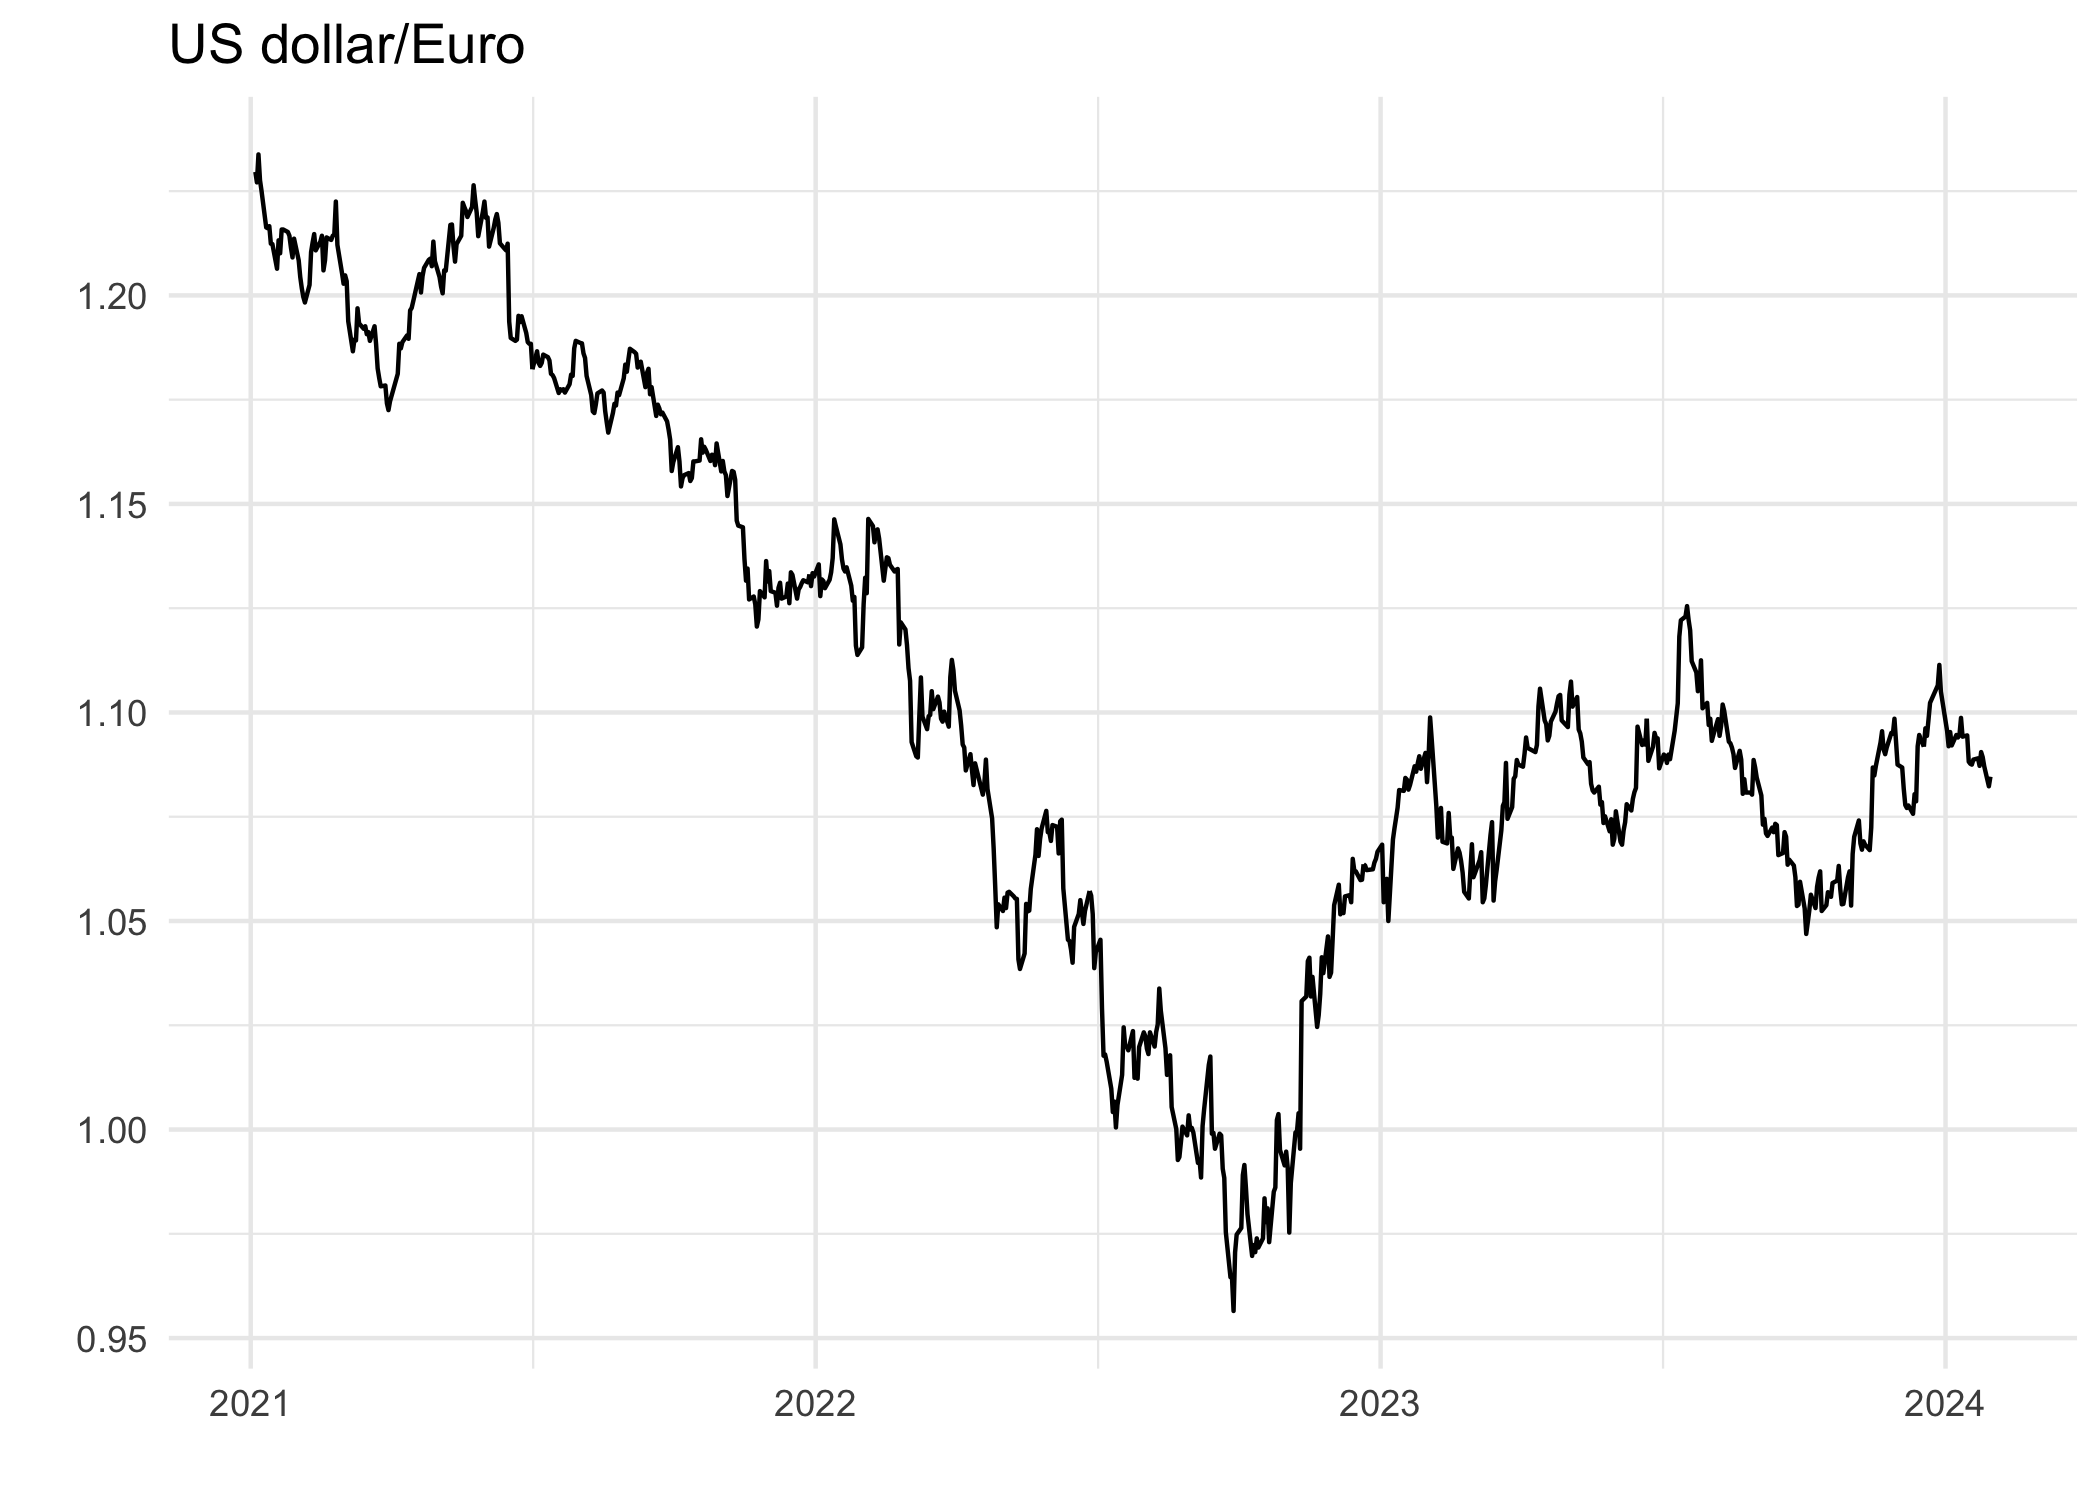
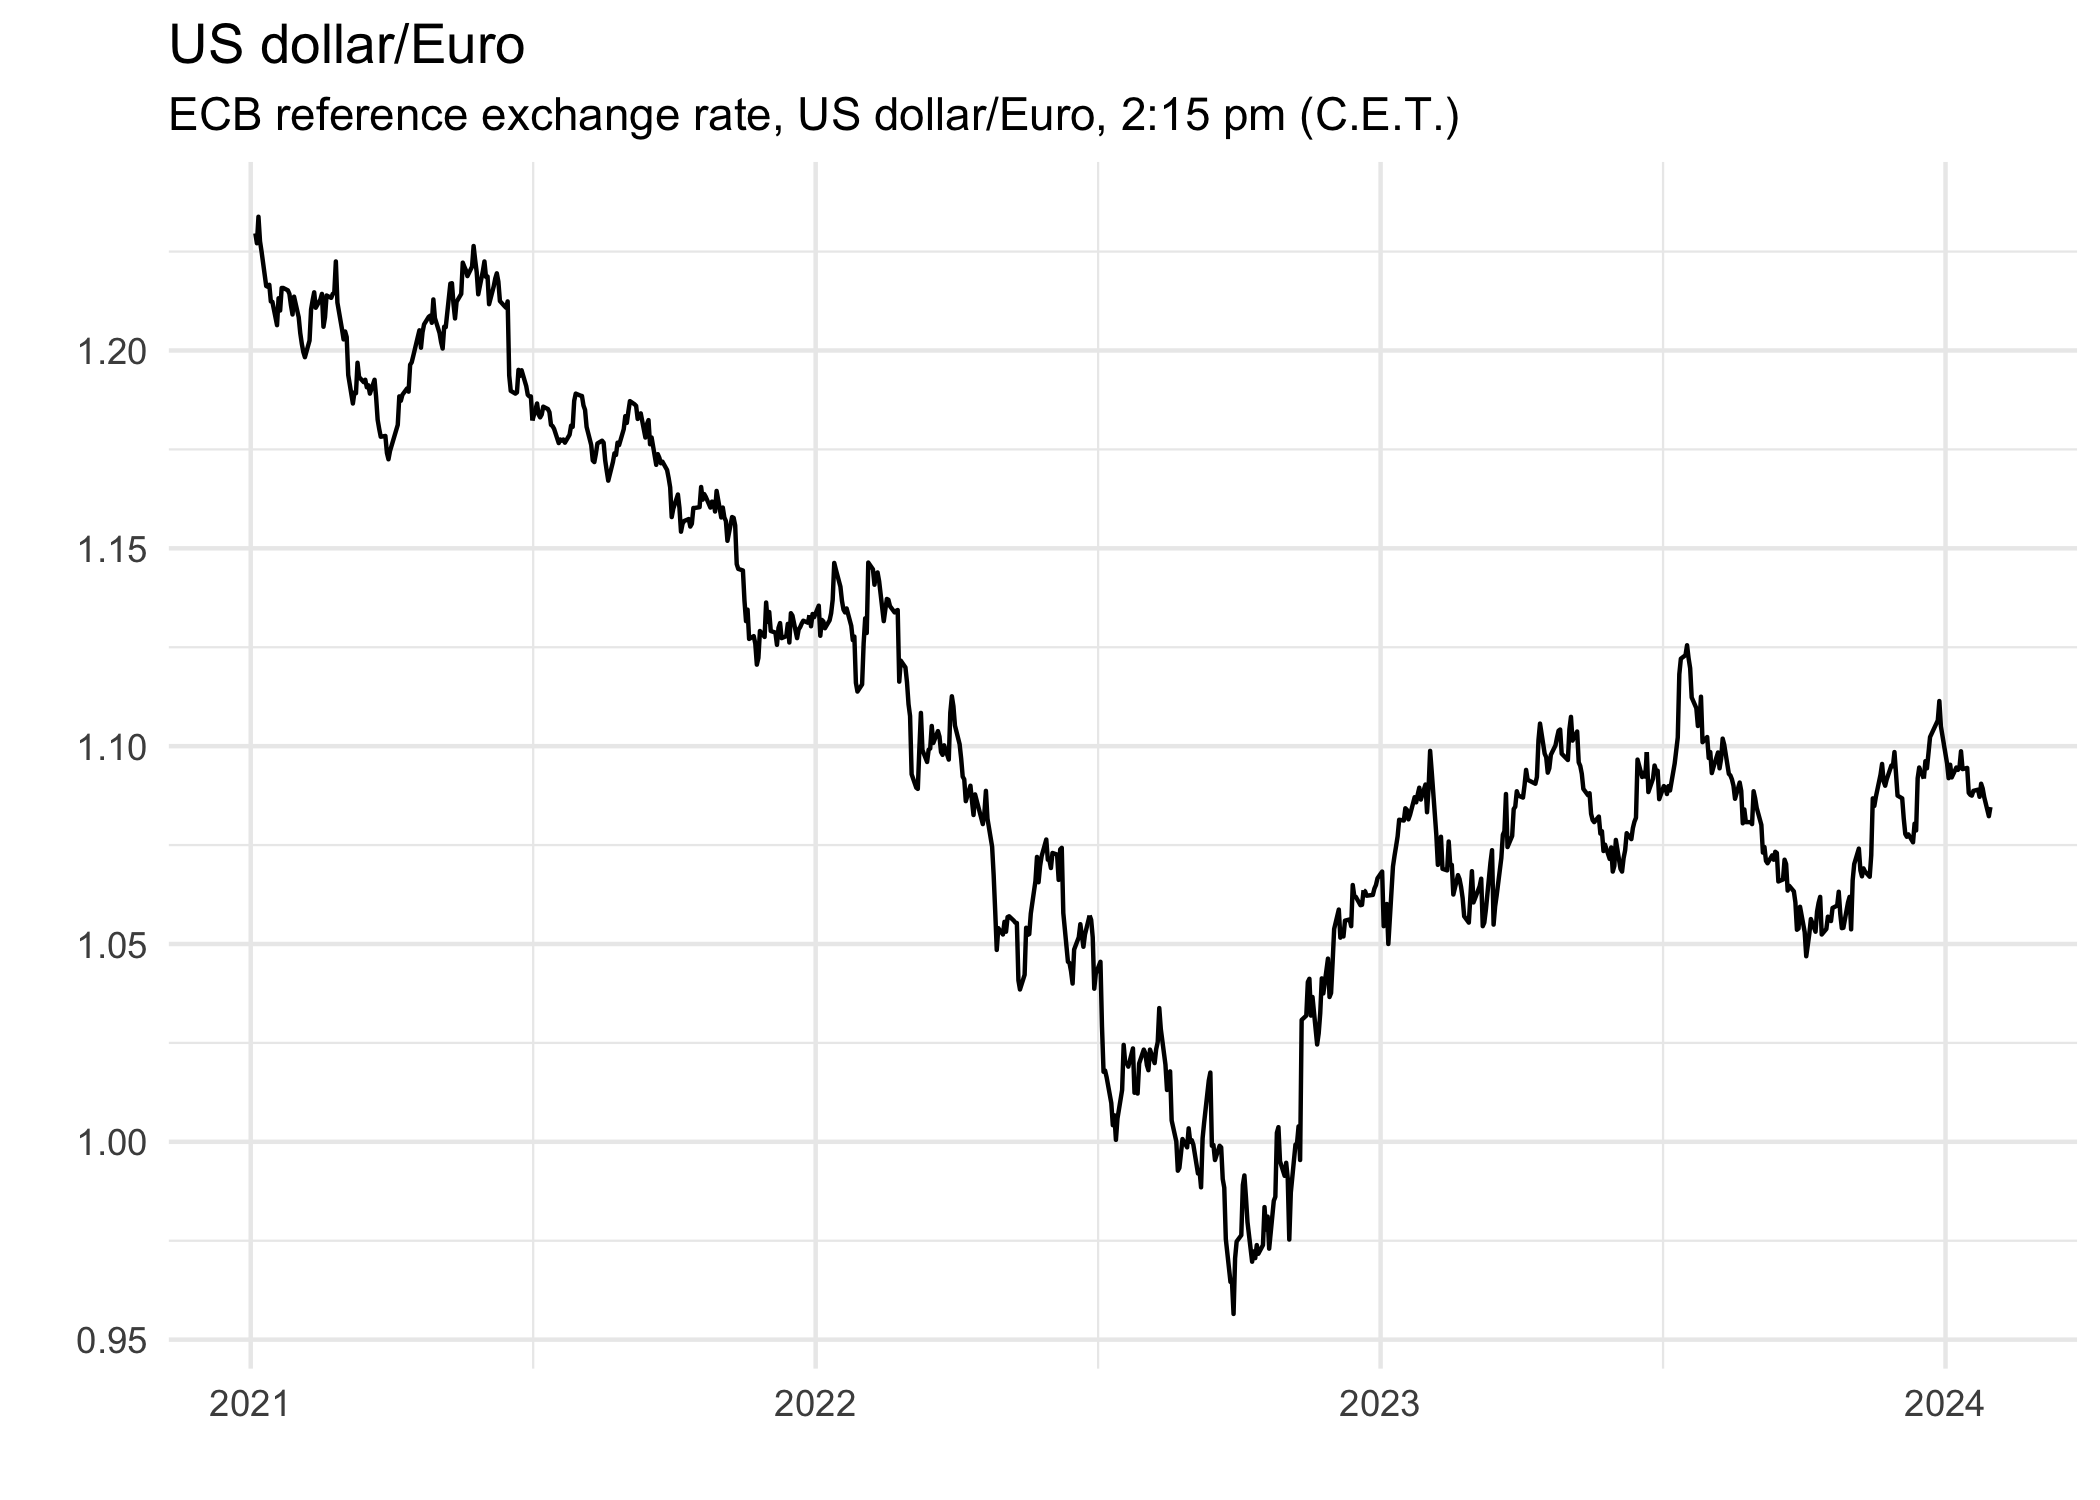
docs: add subtitle

diff --git a/README.md b/README.md
@@ -37,7 +37,12 @@ library(ggplot2)
 
 ggplot(fx_rate, aes(x = date, y = value)) +
   geom_line() +
-  labs(x = "", y = "", title = fx_rate[1, "title", drop = TRUE]) +
+  labs(
+    x = "",
+    y = "",
+    title = fx_rate[1, "title", drop = TRUE],
+    subtitle = fx_rate[1, "description", drop = TRUE]
+  ) +
   theme_minimal()
 ```
 
